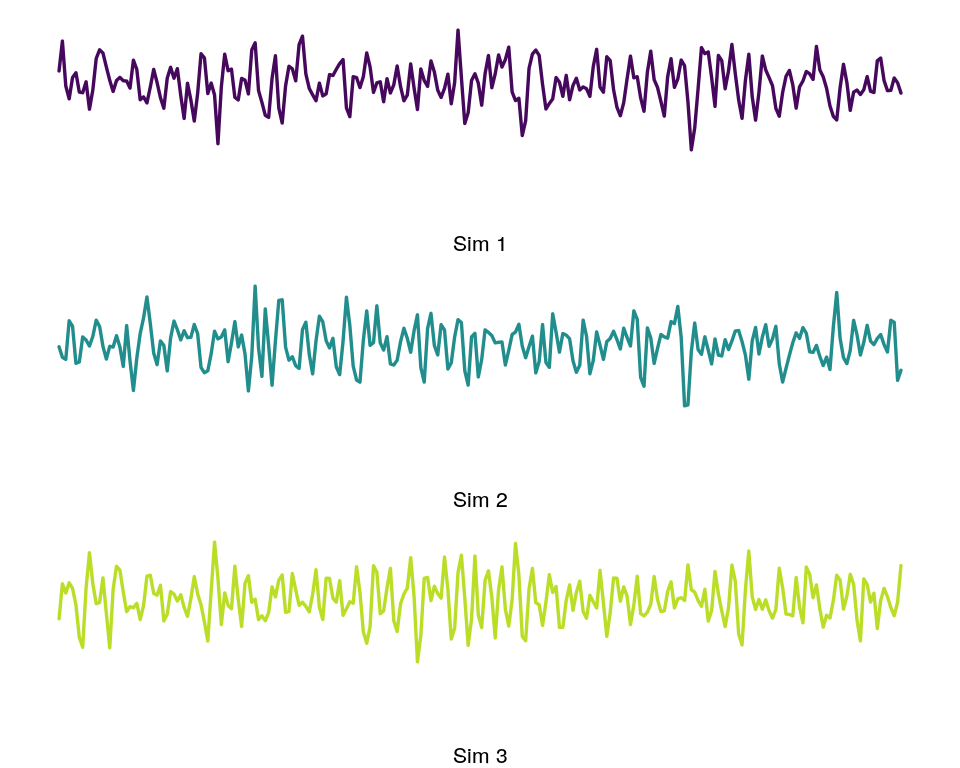
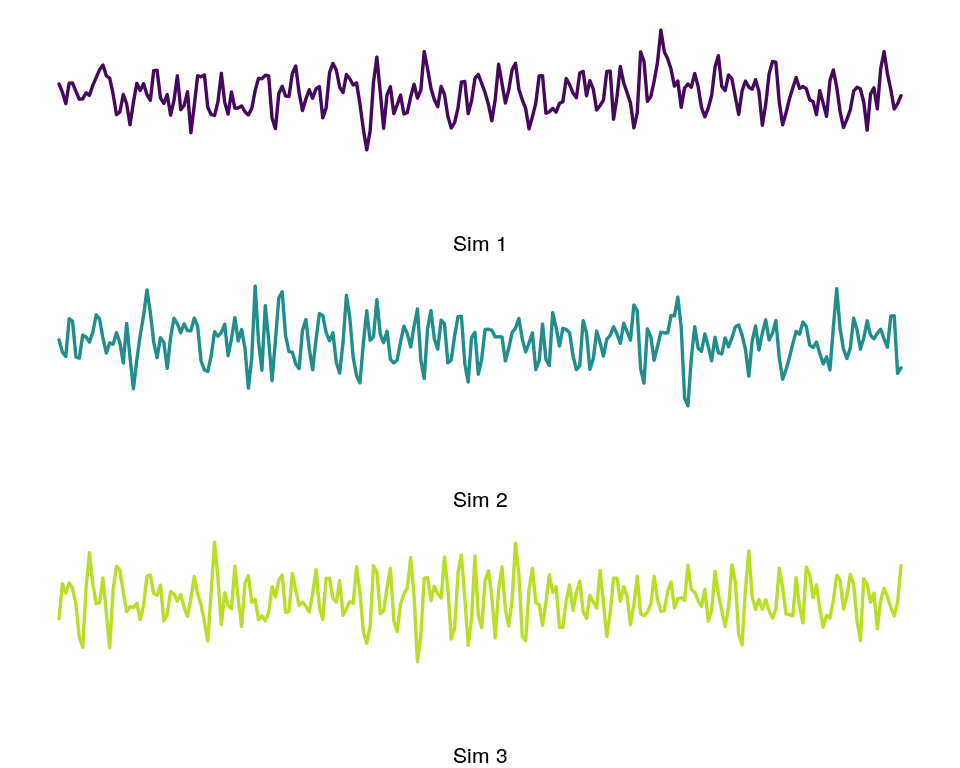
copy-edit

Changed region(s): [[0.0625, 0.0312, 0.9375, 0.1875], [0.0625, 0.375, 0.9375, 0.5312]]

diff --git a/content/post/lego-sql-part1.html b/content/post/lego-sql-part1.html
@@ -8,30 +8,31 @@ tags: ["R", "SQL", "eda"]
 
 
 
-<p>There are a number of reasons why using relational databases for your data analyses can be a good practice: doing so requires cleaning and tidying your data, it helps preserve data integrity, and it means you can avoid loading a full dataset into memory. In this tutorial, we will be using the <a href="https://www.kaggle.com/rtatman/lego-database">lego dataset</a>. It’s moderately sized at 3 MB and the data comes from a relational database, so it has already been cleaned and <a href="https://en.wikipedia.org/wiki/Database_normalization">normalized</a>. This means we can focus on creating and querying the database.</p>
-<p>The main goal of this and a planned follow-up tutorial is to introduce several packages useful for handling SQL databases in R. In this tutorial, we will walk through setting up a Postgres database with the <code>RPostgreSQL</code> package. The <code>RPostgreSQL</code> package is one of several packages that use the standardized interface to relational databases provided by the <code>DBI</code> package. This means that, aside from setting up the initial connection to the database, the code here could be used with another database for which the <code>DBI</code> interface has been implemented. For example, the <code>RMySQL</code> and <code>RSQLite</code> are available for the SQLite and MySQL databases.</p>
-<p>In part two we use the data manipulation verbs provided by the <code>dplyr</code> package to query and transform the data. The <code>dplyr</code> package allows you to select, filter, and mutate data stored in a database directly and without the need for using the full-fledged SQL commands. RStudio has a nice overview of database related packages <a href="https://db.rstudio.com/">here</a>.</p>
-<p>For the most part, everything will be done from within R and commands the code should run on any R installation. The major exception is the initial installation of a Postgres database, but I will point to resources for installing and setting up a user in Postgres. There are two other small exceptions and I’ll point this out as they come up. The post should be accessible to a beginner to intermediate R user. Some familiarity with SQL syntax and your systems command line might be helpful.</p>
+<p>There are a number of reasons why using relational databases for your data analyses can be a good practice: doing so requires cleaning and tidying your data, it helps preserve data integrity, and it allows to manipulate and query data without loading the full dataset into memory. In this tutorial, we will be using the <a href="https://www.kaggle.com/rtatman/lego-database">lego dataset</a>. It’s moderately sized at 3 MB and the data comes from a relational database, so it has already been cleaned and <a href="https://en.wikipedia.org/wiki/Database_normalization">normalized</a>. This means we can focus on creating and querying the database.</p>
+<p>The main goal of the and a planned follow-up tutorial is to introduce several packages useful for interfacing with relational databases from R. In this tutorial, we will walk through setting up a Postgres database with the <code>RPostgreSQL</code> package. The <code>RPostgreSQL</code> package is one of several packages that use the standardized interface provided by the <code>DBI</code> package. Aside from setting up the initial connection to the database, the code here could be used with another database for which the <code>DBI</code> interface has been implemented. For example, the <code>RMySQL</code> and <code>RSQLite</code> are available for the SQLite and MySQL databases.</p>
+<p>In part two we use the data manipulation verbs provided by the <code>dplyr</code> package to query and transform the data. The <code>dplyr</code> package allows you to select, filter, and mutate data stored in a database directly and without the need for using the full-fledged SQL commands.</p>
+<p>For the most part, everything will be done from within R the code should run on any R installation. The major exception is the initial installation of Postgres, but I will point to resources for the install step. There are two other small exceptions and I’ll point this out as they come up – in those cases, if you run into any trouble the steps can either be skipped or done manually outside of R. The post should be accessible to a beginner to intermediate R user. Some familiarity with SQL syntax and your systems command line might be helpful.</p>
 <p>The lego dataset can be downloaded manually from <a href="https://www.kaggle.com/rtatman/lego-database">Kaggle</a> with an account. I have mirrored the dataset on S3 to simplify the download step.</p>
-<p>Before getting started install <a href="https://www.postgresql.org/download/">postgreSQL</a>. See the <a href="https://wiki.postgresql.org/wiki/Detailed_installation_guides">installation page</a> for more detailed instruction and there are more <a href="http://www.postgresqltutorial.com/">tutorials here</a>. Once installed you should have a <strong>user</strong> and <strong>password</strong> with which you can set up a database.</p>
+<p>Before getting started install <a href="https://www.postgresql.org/download/">postgreSQL</a>. See the <a href="https://wiki.postgresql.org/wiki/Detailed_installation_guides">installation page</a> for more detailed instruction and there are more <a href="http://www.postgresqltutorial.com/">tutorials here</a>. Once installed you should have a <strong>user</strong> and <strong>password</strong> with give you permissions to create a Postgres database.</p>
 <div id="related-tutorials" class="section level3">
 <h3>Related Tutorials</h3>
 <ul>
 <li><p><a href="http://www.datacarpentry.org/R-ecology-lesson/05-r-and-databases.html">This Data Carpentry</a> tutorial gives an introduction to using <code>dplyr</code> with SQLite and jumps directly into using <code>dplyr</code> syntax.</p></li>
 <li><p><a href="https://channel9.msdn.com/Events/useR-international-R-User-conferences/useR-International-R-User-2017-Conference/Interacting-with-databases-from-Shiny">This UseR2017 talk</a> by Barbara Borge Ribeiro give a quick overview of programmatically accessing relational databases from R</p></li>
 <li><p>Software Carpentry has a introductory tutorial for using databases and SQL which includes lessons for Python and R <a href="https://swcarpentry.github.io/sql-novice-survey/">here</a>.</p></li>
+<li><p>RStudio has a nice overview of database related packages <a href="https://db.rstudio.com/">here</a>.</p></li>
 </ul>
 </div>
 <div id="setup-and-download" class="section level2">
 <h2>Setup and download</h2>
-<p>In addition to <code>dplyr</code> and <code>RPostgreSQL</code>, we will use the <code>readr</code> package was has an enhanced method for reading CSV files. Throughout the code I will be using the ‘::’ operator to identify the namespace R searches for function calls from these packages. Calling functions this way avoids the need to load a package using <code>library()</code> or <code>require()</code>, and it makes explicit what package individual functions come from. The exception is the pipe operator “%&gt;%”, which I use the <code>import</code> package to make available to the current session.</p>
+<p>In addition to <code>dplyr</code> and <code>RPostgreSQL</code>, we will use the <code>readr</code> package was has an enhanced method for reading CSV files. Throughout the code I will be using the <code>::</code> operator to identify the namespace R searches for function calls from these packages. Calling functions this way avoids the need to load a package using <code>library()</code> or <code>require()</code>, and it makes explicit what package individual functions come from. The exception is the pipe operator <code>%&gt;%</code> which I use the <code>import</code> package to make available to the current session.</p>
 <pre class="r"><code># install.packages(&quot;dplyr&quot;)
 # install.packages(&quot;RPostgreSQL&quot;)
 # install.packags(&quot;readr&quot;)
 # install.packages(&quot;import&quot;) 
 # Make pipe available -- added to &quot;imports&quot; environment
 import::from(dplyr, &quot;%&gt;%&quot;)</code></pre>
-<p>First, we need to create a project directory – I’ll be calling it ‘lego-project’ – and set your current directory to that folder. There are a lot of unhelpful warnings so I’m suppressing those for the session by setting the option <code>options(warn=-1)</code>.</p>
+<p>First, we need to create a project directory – I’ll be calling it ‘lego-project’ – and set your current directory to that folder. There are a lot of unhelpful warnings so I’m suppressing those for the session by setting the option <code>options(warn=-1)</code>. You can skip this line if you’d like to see all the warnings.</p>
 <pre class="r"><code>setwd(&quot;~/path/to/my/lego-project&quot;)
 # Supress warnings for this session
 options(warn=-1)</code></pre>
@@ -47,7 +48,7 @@ files &lt;- unzip(tmp)</code></pre>
 <div id="check-out-the-data" class="section level2">
 <h2>Check out the data</h2>
 <p>Now we should have the CSV files unzipped and the file names in <code>files</code>. If you look at the files you’ll see it includes 8 CSV files and one image named <code>downloads_schema.png</code>. This contains the schema for the database the files came from. This details primary and foreign keys and constraints which we won’t be using here. The schema will come in handy in the next tutorial, however, when we need to join data from multiple tables.</p>
-<p>For now we remove it from the <code>files</code> list and grab the filenames for later use. If you have not used the pipe function <code>%&gt;%</code>, imported by <code>dplyr</code>, it sends output from the left-hand function to the next function and the <code>.</code> is a placeholder argument representing that output.</p>
+<p>For now we remove it from the <code>files</code> list and grab the filenames for later use. If you have not used the pipe function <code>%&gt;%</code>, imported from <code>dplyr</code>, it sends output from the left-hand function to the right-hand function. The <code>.</code> is a placeholder argument representing the values output by the left-hand function.</p>
 <pre class="r"><code># Check files names
 files 
 # Remove db schema &#39;.png&#39; file
@@ -59,7 +60,7 @@ filenames &lt;- files %&gt;% sub(&quot;./&quot;, &quot;&quot;, .) %&gt;% sub(&qu
 readr::read_csv(files[1], n_max = 5)
 # Look at heads of all files
 lapply(files, readr::read_csv, n_max = 5)</code></pre>
-<p>For a larger dataset, it might also be useful to check the number of rows of data. I’m going to use the <code>system</code> function to make a call to <code>wc</code>. This is system dependent but should work on Linux or macOS and is an efficient way to get the newline count of a file. I’ll turn this into a function so we can use lapply to iterate over the files. (I’ve commented out a similar function for Windows but I haven’t tested that function.)</p>
+<p>For a larger dataset, it might also be useful to check the number of rows of data. I’m going to use the <code>system</code> function to make a call to <code>wc</code>. The <code>system</code> function allows you to pass command line function to the operating system, so it is OS dependent. These commands should work on Linux or macOS and is an efficient way to get the newline count of a file. I’ll turn this into a function so we can use lapply to iterate over the files. (I’ve commented out a similar function for Windows but I haven’t tested that function.)</p>
 <pre><code># For Linux/Unix or Mac
 count_rows &lt;- function(filename){
   system(paste(&quot;wc -l&quot;, filename))
@@ -72,8 +73,8 @@ out &lt;- lapply(files, count_rows)
 </code></pre>
 <p>At this point, we have an overview of the data types and size of each file. The data are either integers or strings. One possibility would be to update, for example, the <code>is_trans</code> field in colors to be a boolean or logical data type. To keep it simple we will be importing the data types as is.</p>
 </div>
-<div id="make-the-database" class="section level2">
-<h2>Make the database</h2>
+<div id="create-the-database" class="section level2">
+<h2>Create the database</h2>
 <p>Now we have checked out all the ingredients ready can create our database. You’ll need a working installation of Postgres and the username and password for an account. The following <code>db</code> functions are from the <code>RPostgreSQL</code>(and <code>DBI</code>) package.</p>
 <p>In this example, we’ll use your password as plain text in the script. This isn’t the best practice and I give an alternative below.</p>
 <p>First, we identify the database driver we’ll be using and setup the connection, <code>con</code>, which we can use both create and query the database. To use another database, only the first line would need to be changed. If you already had SQLite installed, for example, just load the <code>RSQLite</code> packages and call the analagous function to retrieve the SQLite driver. The remaining DBI calls should work, give or take variations in SQL syntax.</p>
@@ -110,8 +111,8 @@ DBI::dbDisconnect(con)</code></pre>
 <div id="interlude-password-encryption-with-keyringr" class="section level2">
 <h2>Interlude: Password encryption with <code>keyringr</code></h2>
 <p>(If you start a new session you can pick up again here. If continuing with the previous analysis, you can skip the code in this section and still run the rest of the tutorial.)</p>
-<p>There is a nice alternative to using plain text passwords in scripts. The <code>keyringr</code> package lets you encrypt your passwords locally and call those passwords from a script. The package provides three separate functions for doing this and which you should use depends on your operating system. I will use the Linux function below. See <a href="https://cran.r-project.org/web/packages/keyringr/vignettes/Avoiding_plain_text_passwords_in_R_with_keyringr.html">the instructions here</a> for a quick guide to the other functions.</p>
-<p>We disconnected previously and I assume that we are reconnecting to the database with a fresh R session.</p>
+<p>There is a nice alternative to using plain text passwords in scripts. The <code>keyringr</code> package lets you encrypt your passwords locally and call those passwords from a script. The package provides three separate functions for doing this and which you should use depends on your operating system. I will use the Linux function below. See <a href="https://cran.r-project.org/web/packages/keyringr/vignettes/Avoiding_plain_text_passwords_in_R_with_keyringr.html">the instructions here</a> for a quick guide to the package and the function calls for different operating systems.</p>
+<p>If you have started a new session you can resume at this point. In the code below I assume that we have created the database and reconnecting to the database with a fresh R session.</p>
 <p>For the <code>password</code> argument passed to the <code>dbConnect</code> function below, you will need to replace <code>keyringr::decrypt_gk_pw(&quot;db lego user myusername&quot;)</code> with the <code>keyringr</code> decryption function that’s appropriate for your operating system. Also, you need to replace the key-value pairs, here <code>db lego</code> and <code>user myusername</code> with those passed you used to set up your encrypted password.</p>
 <pre class="r"><code># If restarting, re-set the directory to data
 setwd(&quot;~/path/to/my/lego-project&quot;)
@@ -164,13 +165,13 @@ DBI::dbClearResult(res)
 # Check data
 dim(rgb_df)
 head(rgb_df)</code></pre>
-<p>The data columns have the data type character. The <code>rgb</code> colors are in hexadecimal which R can read fine. The values, however, don’t reflect the transparency. We use two <code>dplyr</code> verbs to count the number of transparent colors. In the next line, we add a column with the color adjusted for transparency. The <code>ifelse</code> statement sets the new column, named <code>rgbt</code>, to the straight <code>rgb</code> value if <code>is_trans</code> is false, otherwise, it adds an alpha value determined by the <code>adjustcolor</code> function.</p>
+<p>Both columns are of type ‘character’. The <code>rgb</code> colors are in hexadecimal and R will read string hexadecimals as colors. The values, however, don’t reflect the transparency. We use <code>dplyr</code> functions to <code>filter</code> rows with transparent colors and <code>count</code> to get the total number of rows returned by the previous step. In the next line, we add a column with the color adjusted for transparency. The <code>ifelse</code> statement sets the new column, named <code>rgbt</code>, to the straight <code>rgb</code> value if <code>is_trans</code> is false, otherwise, it adds an alpha value determined by the <code>adjustcolor</code> function.</p>
 <pre class="r"><code>rgb_df$rgb &lt;- paste0(&quot;#&quot;, rgb_df$rgb) 
 head(rgb_df)
 # Count number of transparent colors
 rgb_df %&gt;% dplyr::filter(is_trans == &quot;t&quot;) %&gt;% dplyr::count()
 # And rgb + alpha column
-rgb_df &lt;- rgb_df %&gt;% dplyr::mutate(rgbt = ifelse(is_trans ==  &quot;f&quot;, rgb,adjustcolor(rgb, 0.5)))</code></pre>
+rgb_df &lt;- rgb_df %&gt;% dplyr::mutate(rgbt = ifelse  (is_trans ==  &quot;f&quot;, rgb,adjustcolor(rgb, 0.5)))</code></pre>
 <p>Now we plot the results. The <code>sort</code> function orders the hex values alphanumerically, which isn’t a perfect color sorting but it’s not too bad either.</p>
 <pre class="r"><code>par(bg = &quot;gray10&quot;, mar = c(2,1,2,1))
 barplot(
@@ -204,7 +205,7 @@ par(mfrow = c(9, 15), mar = c(0.7, 0.7, 1, 0.7))
 cols &lt;- sort(rgb_df$rgbt)
 for(k in 1:length(cols))  draw_lego(cols[k])</code></pre>
 <p><img src="/post/lego-sql-part1_files/figure-html/squares-1.png" width="624" style="display: block; margin: auto;" /></p>
-<p>Maybe it’s a little cheesy, maybe you like it that way, in any case, it’s good enough for a quick view of the colors.</p>
+<p>Maybe it’s a little corny, maybe you like corny; In any case, it’s good enough for a quick view of the colors.</p>
 <p>In the follow-up post, I’ll go over using <code>dplyr</code> to query, filter, and transform data from our lego database. In order to explore the data in more detail, we’ll also need to do some basic joins.</p>
 <p>Finally, for this session, we need to clean up the open connection and reset the warnings option.</p>
 <pre class="r"><code>DBI::dbDisconnect(con)

diff --git a/content/post/fd1.html b/content/post/fd1.html
@@ -9,31 +9,30 @@ tags: ["R", "Time Series"]
 
 
 <p>Take a line of unit length and remove the piece between 1/3 and 2/3. The two remaining pieces are 1/3rd the length of the original. We can think of each as being a smaller image of the original line and again remove the middle third of these two pieces. This leaves us with 4 identitcal lines each 1/3*1/3 = 1/9th of the original piece. The process doesn’t affect the end points of each line, and repeat this middle-third removal ad-infinitum and you end up with a set of infinitely many points, the ‘Cantor dust’.</p>
-<div class="figure">
-<img src="/img/cantor-middle-third.png" alt="Cantor middle thirds set" />
-<p class="caption">Cantor middle thirds set</p>
-</div>
-<p>This, the middle-thirds <a href="https://en.wikipedia.org/wiki/Cantor_set#The_Hausdorff_dimension_theorem">Cantor set</a>, is a famous mathematical object. After infinite steps the set has uncountably many points but no length. The original definition of fractional dimension was devised to capture a property of similar sets that were ‘large’, in the sense of being infinite in size and dense, but that still had no volume or length. The first measure of these sets was the <a href="https://en.wikipedia.org/wiki/Hausdorff_dimension">Hausdorff dimension</a> which takes on integer amounts for ‘normal’ objects like lines and cubes but fractional amounts for odd objects like the Cantor set. The cantor set also has the property of being self-similar, each iteration is a scaled image of the previous set. It’s a property associated with fractal objects and one reason why the term fractal-dimension is used in place of fractional dimension.</p>
-<p>While the origins of the term are interesting, it seems to also have added an unnecessary air of mystery to the idea of fractal dimension. In the this post I try to demonstrate that one can also think of fractal dimension as a statistical property that relates to fundamental properties of the graph of a time series or random processes. In particular, fractal dimension can be described in terms of the autocorrelation function of a time series. Changes in fractal dimension can also be readily seen in the graphs of time series or random fields.</p>
-<p>(If you are interested in more mathematical details, this post is based on a nice and not too long <a href="(https://arxiv.org/abs/physics/0109031)">paper</a> by Tilmann Gneiting.)</p>
+<img src="/img/cantor-middle-third.png" />
+<center>
+<em>Cantor middle thirds set after 7 iterations, <a href="https://commons.wikimedia.org/w/index.php?title=File:Cantor_set_in_seven_iterations.svg&amp;oldid=247153593">Wikmedia Commons</a></em>
+</center>
+<p>This, the middle-thirds <a href="https://en.wikipedia.org/wiki/Cantor_set#The_Hausdorff_dimension_theorem">Cantor set</a>, is a famous mathematical object. After infinite steps the set has uncountably many points but no length. The original definition of fractional dimension was devised to capture a property of similar sets that were ‘large’, in the sense of being infinite in number, and dense, but that still had no volume or length. The first proposed measure of these sets was the <a href="https://en.wikipedia.org/wiki/Hausdorff_dimension">Hausdorff dimension</a> which takes on integer amounts for relatively smooth objects like lines and cubes but fractional amounts for ‘rough’ objects like the Cantor set. The cantor set also has the property of being self-similar, each iteration is a scaled image of the previous set. This latter property is one associated with fractal objects and one reason why the term ‘fractal-dimension’ is commonly used in place of ‘fractional-dimension’.</p>
+<p>While the origins of the term are interesting, it seems to also have added an unnecessary air of mystery to the idea of fractal dimension. In the this post I try to demonstrate that fractal dimension is a statistical property that relates to fundamental properties of the graph of a time series or random processes. In particular, fractal dimension can be described in terms of the autocorrelation function of a time series. Changes in fractal dimension can also be readily seen in the graphs of time series or random fields.</p>
+<p>(If you are interested in more mathematical details, this post is based on a nice and not too long [paper by Tilmann Gneiting]((<a href="https://arxiv.org/abs/physics/0109031" class="uri">https://arxiv.org/abs/physics/0109031</a>).</p>
 <div id="autocorrelation-function-acf" class="section level3">
 <h3>Autocorrelation Function (ACF)</h3>
-<p>Informally, fractal dimension of a time series measures a relation of points that are close to each other. An increase in fractal dimension corresponds to an increased roughness of the graph. This is a local property, so the larger scale behavior of a process does not necessarily change the fractal dimension. The local property of fractal dimension can be seen more easily when contrasted with a more global poperty such as the Hurst parameter. The Hurst parameter measures how dependent points in a time series are on points distant from them in time (or space). We can think of a breezy day at sea: fractal dimension would determine the choppiness of the sea while the Hurst parameter corresponds to a large swell. The plots below demonstrate what these two properties look like when their effects are isolated.</p>
-<p>Both of the Hurst parameter and fractal dimension properties are related to the behavior of the autocorrelation function of a random process. The <a href="https://en.wikipedia.org/wiki/Autocorrelation">autocorrelation function</a> is the correlation, or similarity, of a function values with itself at various lags <span class="math inline">\(h\)</span>. To simplify things, we assume we have a random process with mean 0 and variance 1. Then the expression for the autocorrelation function is</p>
-<p><span class="math display">\[
+<p>Informally, the fractal dimension of a time series measures a relation of points that are close to each other. An increase in fractal dimension corresponds to an increased roughness of the graph. This is a local property, so the larger scale behavior of a process does not necessarily change the fractal dimension. The local property of fractal dimension can be seen more easily when contrasted with a more global poperty such as the Hurst parameter. The Hurst parameter measures how dependent points in a time series are on points distant from them in time (or space). Think of a pleasant breezy day at sea: the fractal dimension of the surface of the sea would indicated by the choppiness of the sea while the Hurst parameter corresponds to a larger swells. The plots below demonstrate what these two properties look like when their effects are isolated, and we’ll describe them in more detail below.</p>
+<p>Both the Hurst parameter and fractal dimension properties are related to the behavior of the autocorrelation function of a random process. The <a href="https://en.wikipedia.org/wiki/Autocorrelation">autocorrelation function</a> is the correlation, or similarity, of a function values at time <span class="math inline">\(t\)</span> with its values at various lags <span class="math inline">\(h\)</span>. To simplify things, we assume we have a stationary random process with mean 0 and variance 1. Then the expression for the autocorrelation function is <span class="math display">\[
   c(h)  = E[X(t)X(t + h)], \qquad h \in \mathbb{R^n}.
 \]</span> Fractal dimension characterizes how the the autocorrelation function <span class="math inline">\(c(h)\)</span> behaves as <span class="math inline">\(h\)</span> goes to <span class="math inline">\(0\)</span> while the Hurst parameter characterizes how <span class="math inline">\(c(h)\)</span> behaves as <span class="math inline">\(h\)</span> goes to infinity.</p>
 </div>
 <div id="cauchy-process" class="section level3">
 <h3>Cauchy Process</h3>
-<p>Some random processes, <a href="">Brownian Motion</a>, for instance, have a single parameter that determines both the fractal dimension and the Hurst parameter of the function. The Cauchy process, on the other hand, has two parameters that separately control the fractal dimension(<span class="math inline">\(D\)</span>) and the long-range dependence or Hurst parameter(<span class="math inline">\(H\)</span>). The Cauchy process can be described by its correlation function: <span class="math display">\[
+<p>Some random processes, <a href="https://en.wikipedia.org/wiki/Brownian_motion">Brownian Motion</a> for instance, have a single parameter that determines both the fractal dimension and the Hurst parameter of the function. The Cauchy process, on the other hand, has two parameters that separately control the fractal dimension(<span class="math inline">\(D\)</span>) and the long-range dependence or Hurst parameter(<span class="math inline">\(H\)</span>). The Cauchy process can be described by its correlation function: <span class="math display">\[
   c(h) = \left(1+ |h|^{\alpha}\right)^{-\beta/\alpha}, \qquad  h \in \mathbb{R}^n
 \]</span> with <span class="math inline">\(\alpha \in (0,2]\)</span> and <span class="math inline">\(\beta &gt; 0\)</span>. The fractal dimension of the graph of a sample from an n-dimensional Cauchy process is determined by the parameter <span class="math inline">\(\alpha\)</span>: <span class="math display">\[
     D =  n + 1 - \frac{\alpha}{2}.
 \]</span> And the Hurst parameter is related to <span class="math inline">\(\beta\)</span>: <span class="math display">\[
     H =  1 - \frac{\beta}{2}.
 \]</span></p>
-<p>The <code>RandomFields</code> package has a function for simulating the Cauchy process. The <code>RandomFields</code> package generates a time series or random field in two steps. Here I wrapped those steps in another function so that only the data is returned.</p>
+<p>The <code>RandomFields</code> package has a function for simulating the Cauchy process. The <code>RandomFields</code> package generates a time series or random field in two steps. Here I wrapped those steps in a function which takes the Cauchy parameters and returns a simpler generating function.</p>
 <pre class="r"><code>library(RandomFields)
 library(dplyr)
 
@@ -147,8 +146,8 @@ plot(coeffs[, 2], lapply(transects, fractal_dim),
 <pre class="r"><code>set.seed(1)
 reps = 50
 t3 &lt;- replicate(reps, arima.sim(n = 500, list(ar = c(0.5, -0.2), ma = c(-5, 0, 5))))
-t2 &lt;- replicate(reps, arima.sim(n = 500, list(ar = c(0.7, -0.2), ma = c(-5, 0, 5))))
-t1 &lt;- replicate(reps, arima.sim(n = 500, list(ar = c(0.9, -0.2), ma = c(-5, 0, 5))))  
+t2 &lt;- replicate(reps, arima.sim(n = 500, list(ar = c(0.8, -0.2), ma = c(-5, 0, 5))))
+t1 &lt;- replicate(reps, arima.sim(n = 500, list(ar = c(1.1, -0.2), ma = c(-5, 0, 5))))  
 
 ts_list &lt;- list(t1, t2, t3)
 pal = viridis::viridis(50)[c(2, 25, 45)] 
@@ -178,7 +177,7 @@ Figure 4: Sample from each group ARMA simulations.
 </div>
 <div id="fractal-dimension-estimators" class="section level3">
 <h3>Fractal Dimension Estimators</h3>
-<p>The <code>R</code> fractal dimension package has a number of estimators of fractal dimension. In <a href="http://bit.ly/2vg1ICb">a paper</a> that accompanies the package, Gneiting et al. compare the robustness of the fractal dimension estimators, which include estimators based on box-counting dimension, wavelets, and spectral density.</p>
+<p>The <code>R</code> fractal dimension package has a number of estimators of fractal dimension. In a paper that accompanies the package, <a href="http://bit.ly/2vg1ICb">Gneiting et al.</a> compare the robustness of the fractal dimension estimators, which include estimators based on box-counting dimension, wavelets, and spectral density.</p>
 <p>They find the variogram or madogram estimators perform best. The increments of a random process are defined <span class="math inline">\((X(t) - X(t+h))\)</span>, and the <a href="https://en.wikipedia.org/wiki/Variogram">variogram</a> is the squared expectation of the increments: <span class="math display">\[
  \gamma(h) = \frac{1}{2}E\left(X(t) - X(t + h)\right)^2.
 \]</span> The slope of the <span class="math inline">\(\log-\log\)</span> regression of the variogram to the interval <span class="math inline">\(h\)</span> determines the fractal estimator. The madogram estimator is calculated in the same way but with the absolute value of the increments used instead of the squared value.</p>
